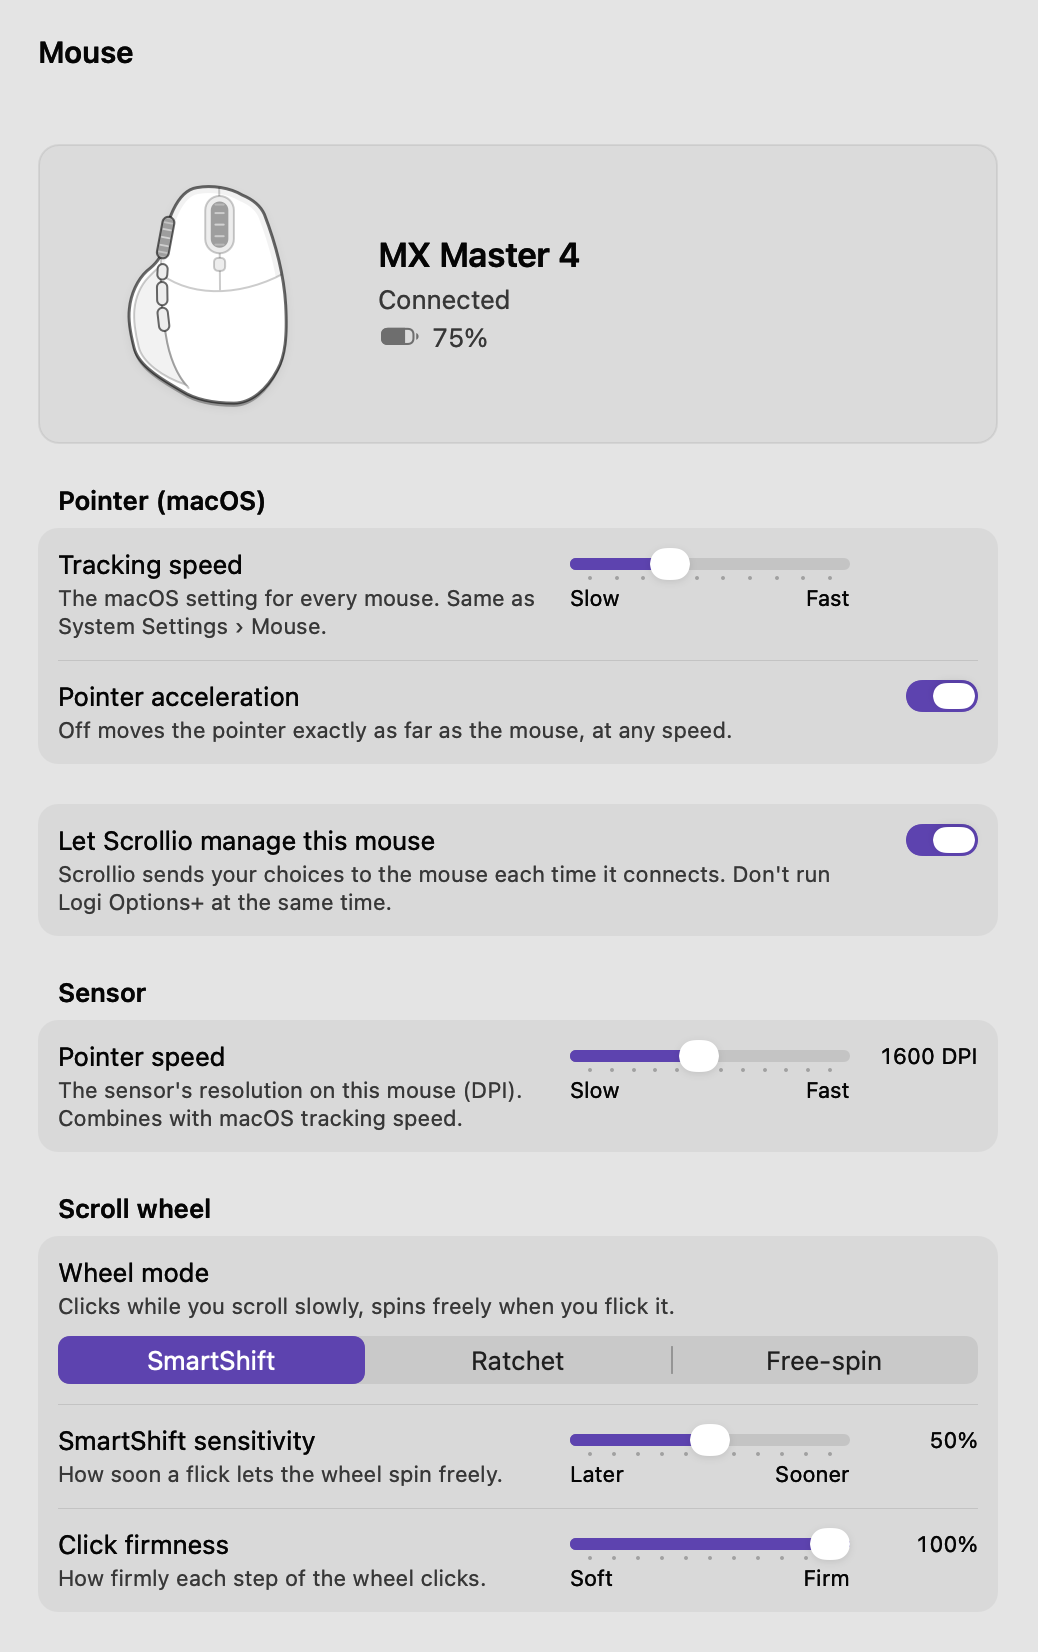
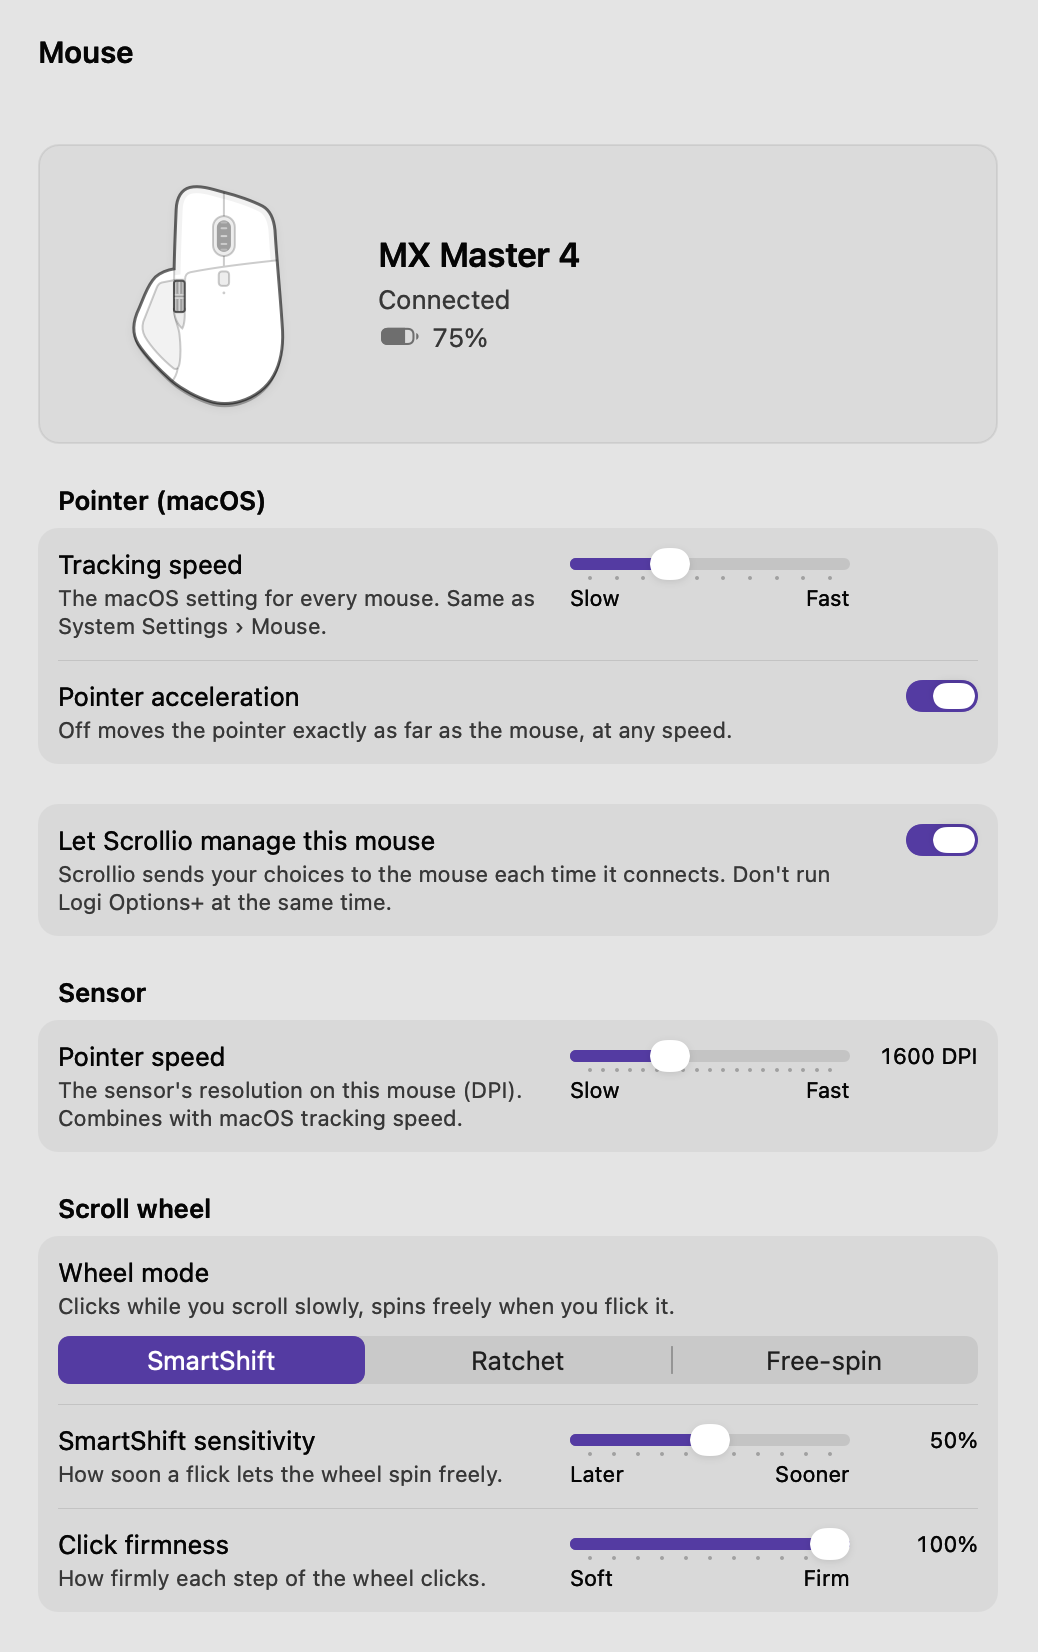
Version 1.0.4: its part of the changelog, and the README's pictures drawn again
The pictures show the mouse as it is drawn now (the MX Master 4 from above and from
the thumb side), today's accent colour and the default speed of 6.5.

Changed region(s): [[0.1233, 0.0926, 0.2775, 0.247], [0.6166, 0.6174, 0.7091, 0.6483]]

diff --git a/CHANGELOG.md b/CHANGELOG.md
@@ -8,7 +8,7 @@ it for the people who use the app, and give the version its part before you tag 
 `## Unreleased` collects what the next version brings; it becomes that version's part
 (the heading gets the version) before the tag.
 
-## Unreleased
+## 1.0.4
 
 - **The MX Master 4 is drawn as it is.** Its picture in Settings is redrawn from above,
   and has a second view from the thumb side: the thumb wheel on top, Forward and Back in a
